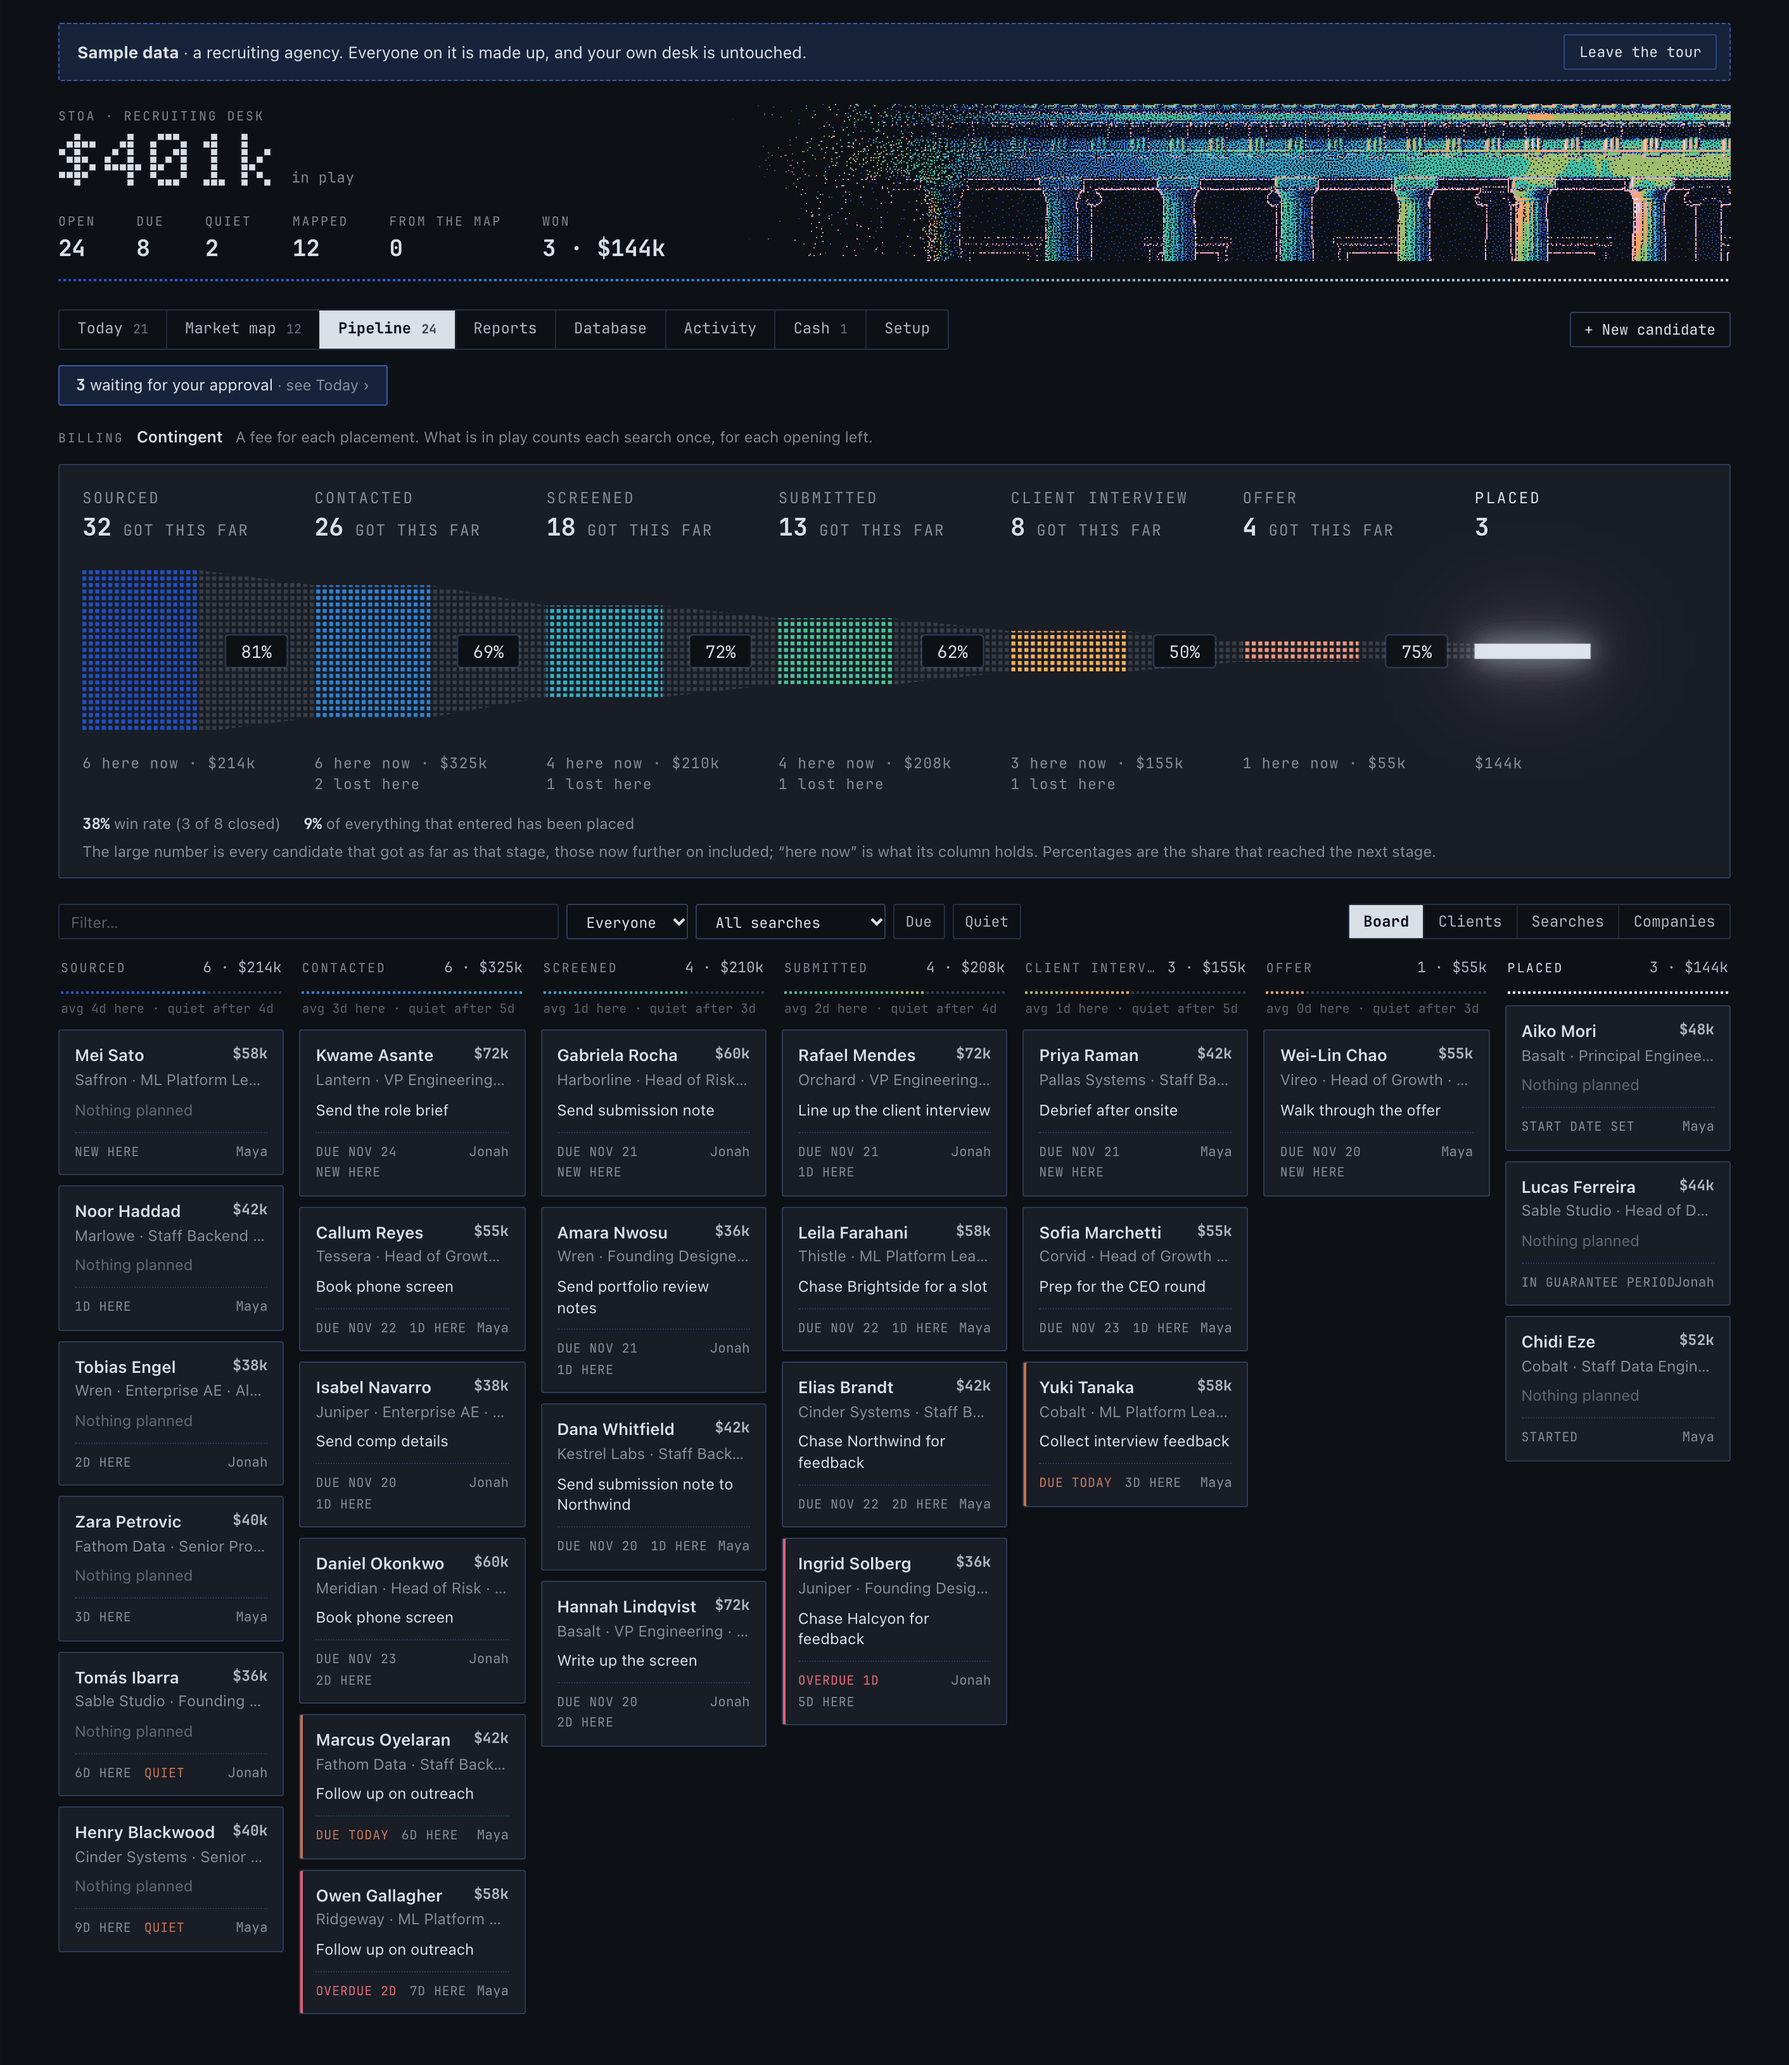
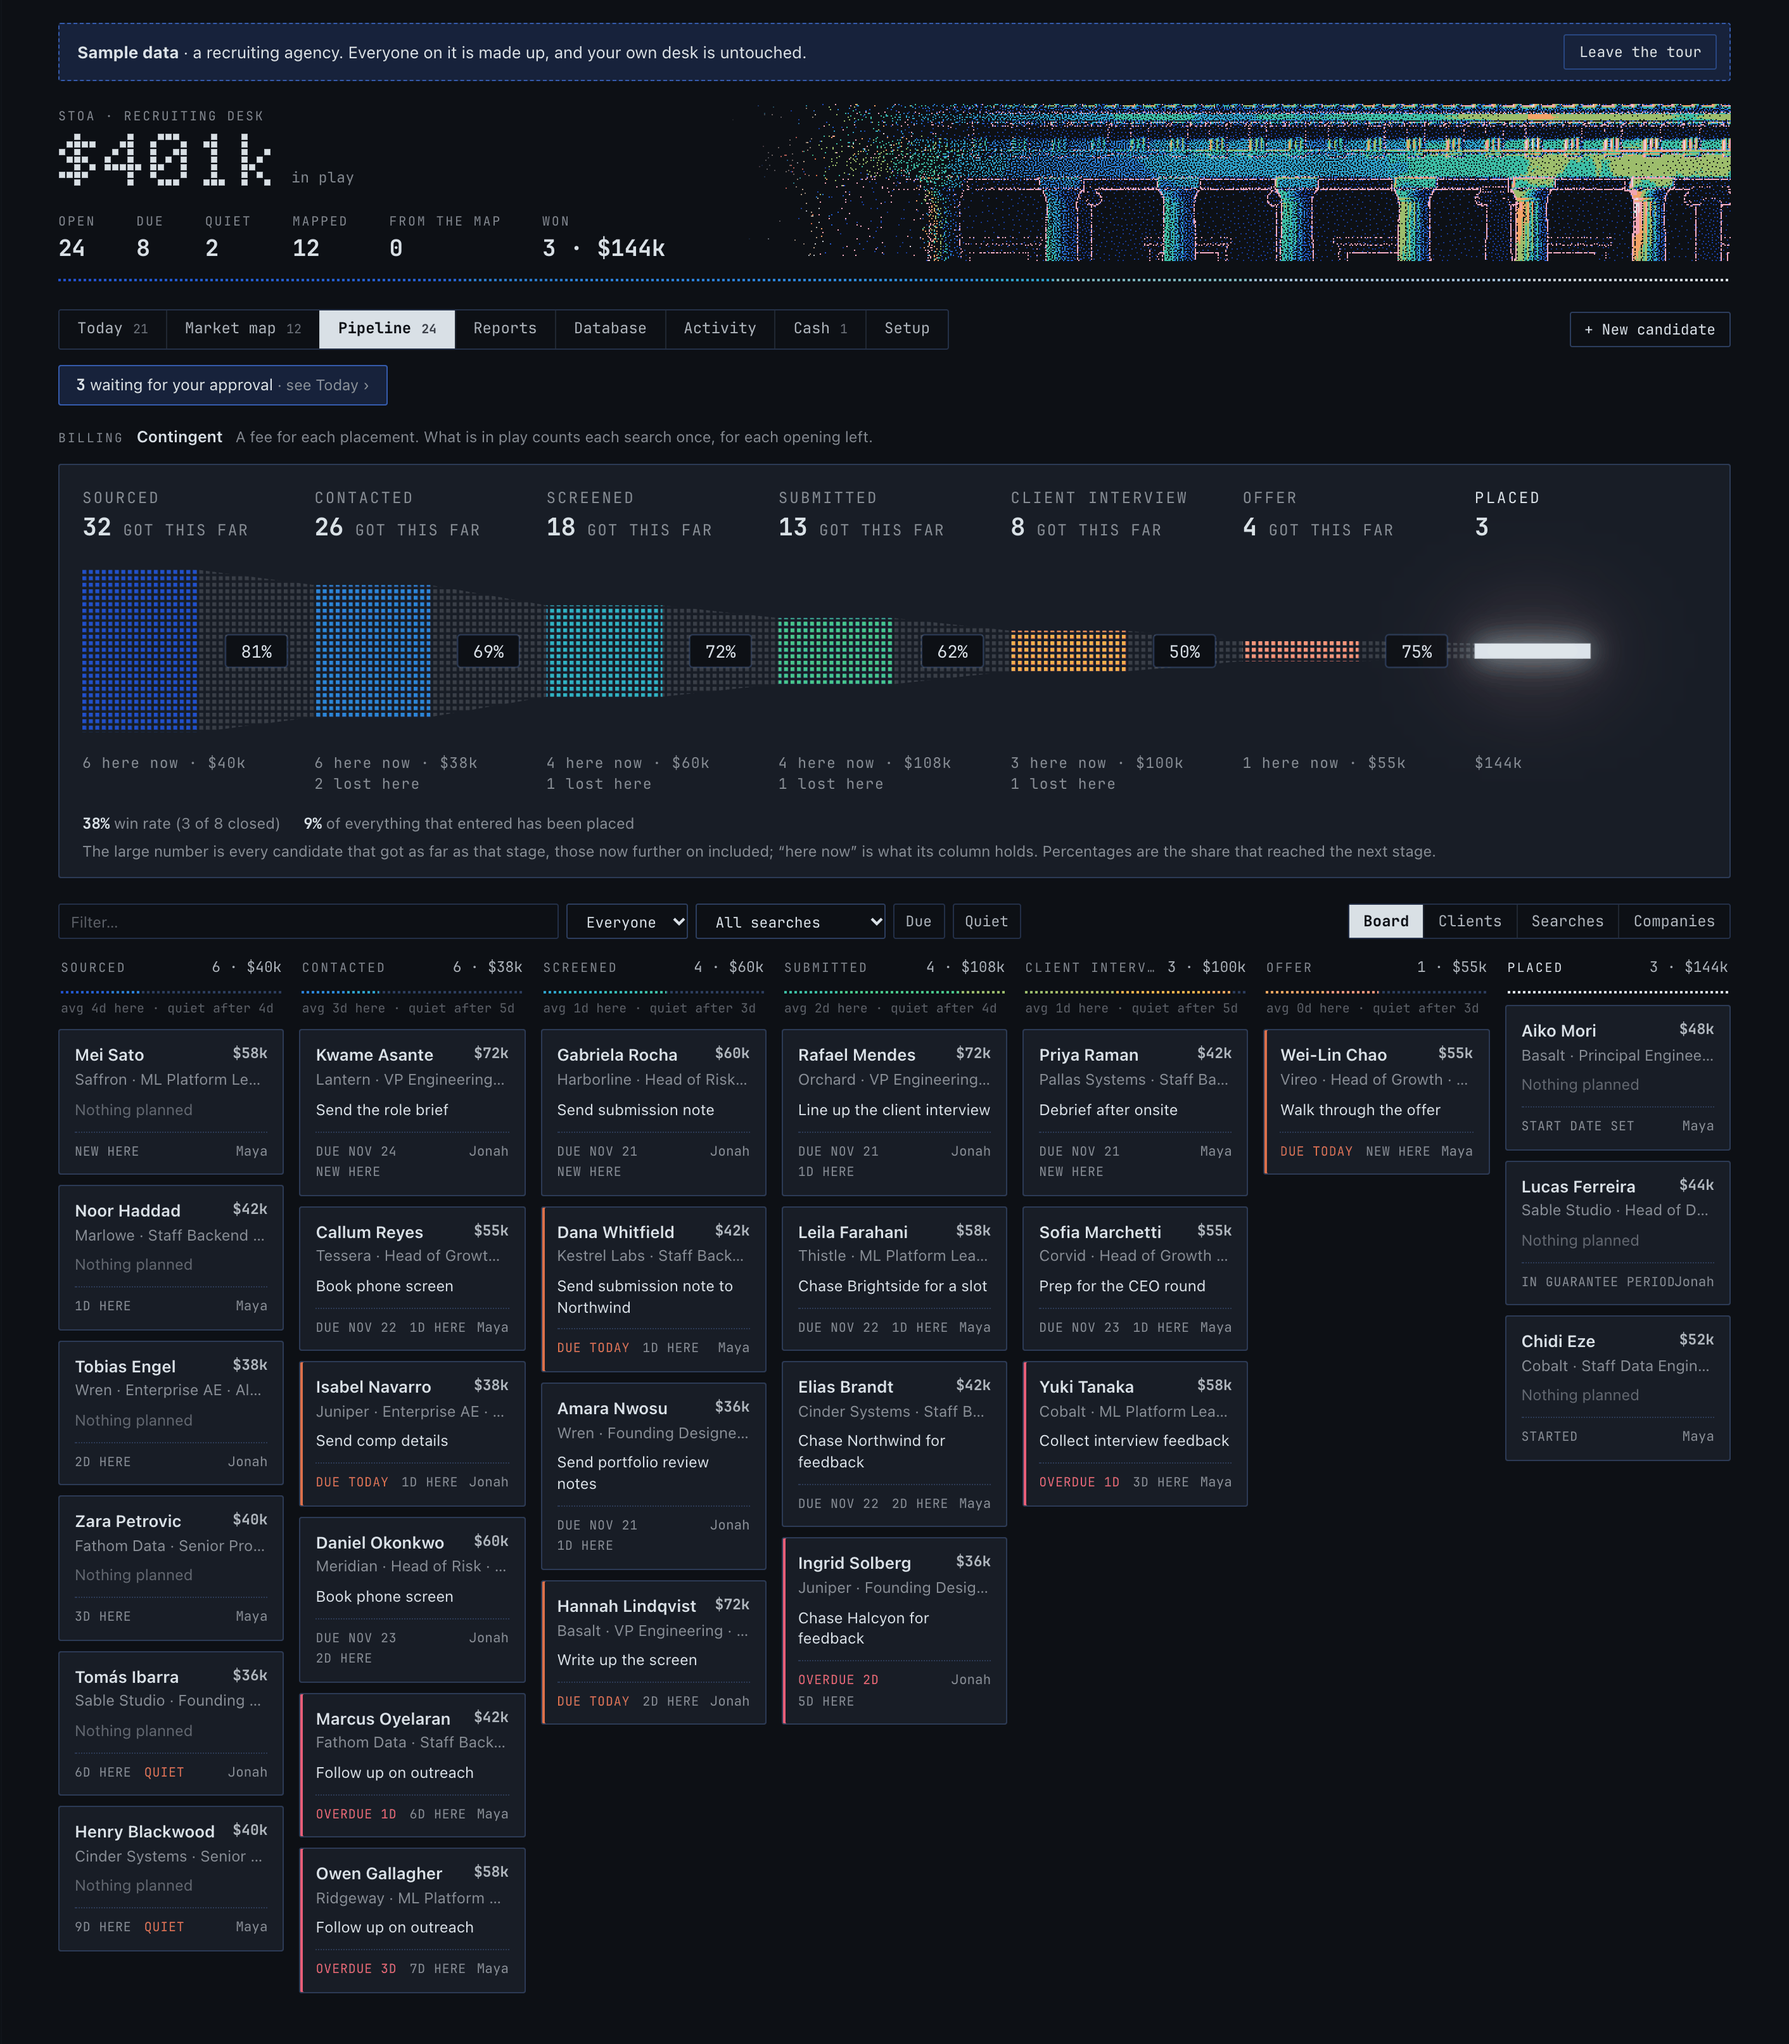
A search's and a client's page total their stages the same way; the recruiting pictures retaken with columns that add up

diff --git a/desktop/plugin.js b/desktop/plugin.js
@@ -4515,13 +4515,17 @@ function RecordPage({ id, state: shown, sessionId, back, backLabel, openRecord, 
 
 /** The records in a group or at a company, a stage at a time in the playbook's order, the closed ones last. */
 function ByStage({ records, pb, openRecord, showCompany }) {
-  const sections = pb.stages.map(stage => [stage.label, records.filter(record => record.status === 'open' && record.stage === stage.id)])
-    .concat([[pb.won.label, records.filter(record => record.status === 'won')], [pb.lost.label, records.filter(record => record.status === 'lost')]])
+  // A stage's amount, as on the board: on a contingent recruiting pipeline each search once, where its furthest-along record is.
+  const staged = stageSums(records.filter(record => record.status === 'open'), { playbook: pb })
+  const plain = list => list.reduce((sum, record) => sum + (record.value || 0), 0)
+  const closed = status => records.filter(record => record.status === status)
+  const sections = pb.stages.map(stage => [stage.label, records.filter(record => record.status === 'open' && record.stage === stage.id), staged.get(stage.id) || 0])
+    .concat([[pb.won.label, closed('won'), plain(closed('won'))], [pb.lost.label, closed('lost'), plain(closed('lost'))]])
     .filter(pair => pair[1].length)
   if (!sections.length) return h('p', { className: 'stoa-sub' }, 'None yet.')
   return h('div', null, sections.map(pair => h('div', { key: pair[0], className: 'stoa-stagegroup' },
     h('div', { className: 'stoa-stagehead' }, h('span', { className: 'stoa-eyebrow' }, pair[0]),
-      h('span', { className: 'stoa-sub' }, [String(pair[1].length), money(pair[1].reduce((sum, record) => sum + (record.value || 0), 0), pb.currency)].filter(Boolean).join(' · '))),
+      h('span', { className: 'stoa-sub' }, [String(pair[1].length), money(pair[2], pb.currency)].filter(Boolean).join(' · '))),
     h(RecordList, { rows: pair[1], pb, openRecord, showCompany, underStage: true }))))
 }
 
